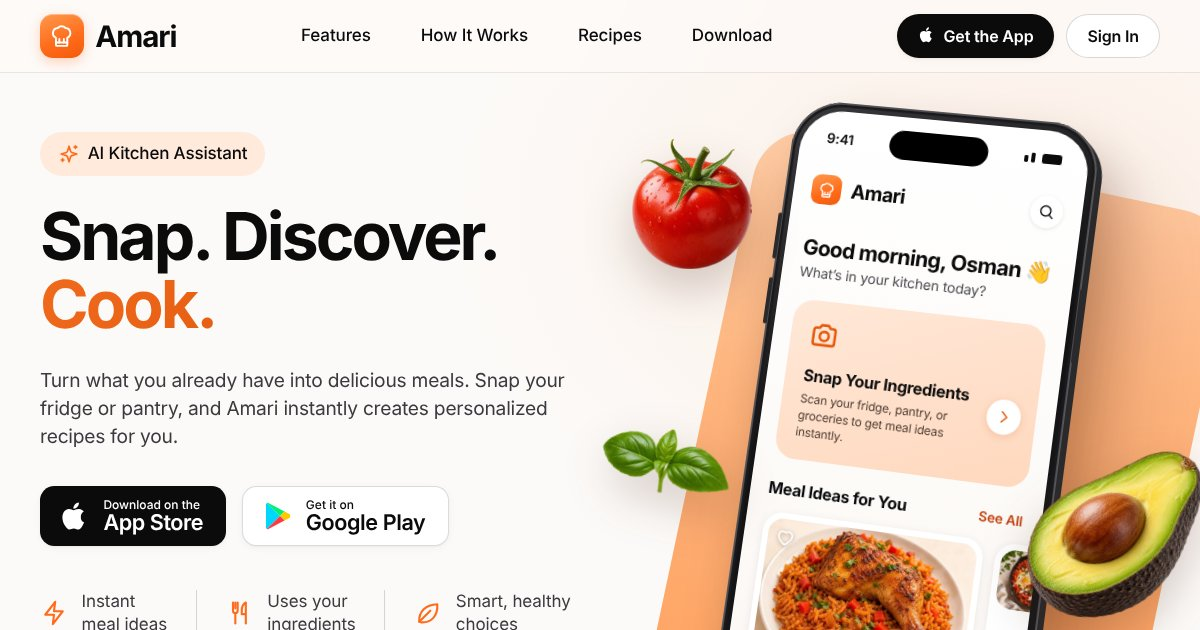
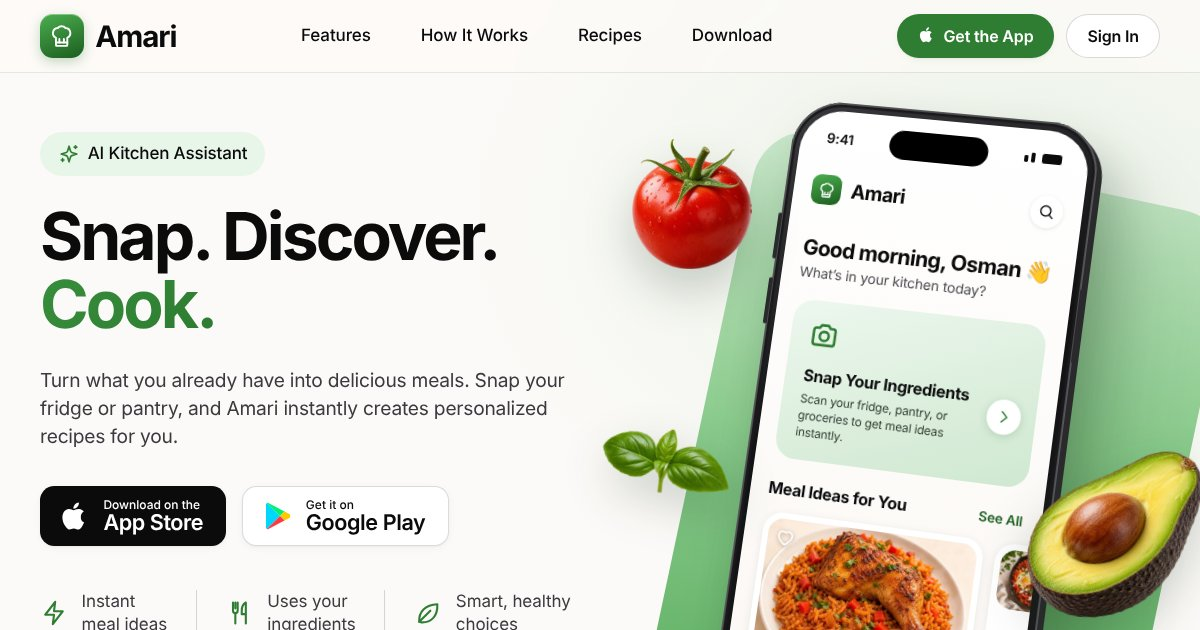
Re-theme site to the app's forest green
Replace the mockup's orange with the Amari app's brand green across the
logo, headline accent, primary buttons (now green with white text,
5.1:1), phone mock, hero backdrop, icons, tags, focus rings and the
Download panel (forest-green gradient). Sage section tints replace the
beige; "running low" in the pantry meter becomes amber so it still
reads as a warning. Favicon, touch icon, manifest and OG image updated.

Claude-Session: https://claude.ai/code/session_014nQZ4Bf8D4g1zRNf1kgH32

diff --git a/public/styles.css b/public/styles.css
@@ -9,33 +9,34 @@
   color-scheme: light dark;
 
   --bg: #FCFAF8;
-  --bg-tint: #F6F1EB;
+  --bg-tint: #F1F6EF;
   --surface: #FFFFFF;
-  --surface-2: #F5F2EE;
+  --surface-2: #F2F6F0;
   --ink: #0B0B0C;
   --ink-2: #3A3A3F;
   --ink-3: #66666C;
   --line: rgba(17, 12, 6, 0.08);
   --line-strong: rgba(17, 12, 6, 0.16);
 
-  --accent: #FF6B1A;
-  --accent-2: #FF9A4D;
-  --accent-text: #B43C0A;      /* ≥ 4.5:1 on white and on --accent-soft */
-  --accent-soft: #FFEADC;
-  --accent-grad: linear-gradient(135deg, #F06A1C 0%, #D94C05 100%);
+  --accent: #2F7D32;
+  --accent-2: #4CAF50;
+  --accent-text: #1B5E20;      /* ≥ 4.5:1 on white and on --accent-soft */
+  --accent-soft: #E8F5E9;
+  --accent-grad: linear-gradient(135deg, #388E3C 0%, #1B5E20 100%);
   --green: #15803D;
   --switch-on: #34C759;
-  --focus: #D9530B;
+  --focus: #2F7D32;
 
-  --btn-bg: #0B0B0C;
+  --btn-bg: #2F7D32;   /* white text 5.1:1 */
   --btn-ink: #FFFFFF;
+  --btn-bg-hover: #276A2A;
 
   --material: rgba(252, 250, 248, 0.72);
   --material-edge: rgba(255, 255, 255, 0.6);
 
-  --shadow-sm: 0 1px 2px rgba(30, 20, 10, 0.05), 0 2px 8px rgba(30, 20, 10, 0.04);
-  --shadow-md: 0 2px 6px rgba(30, 20, 10, 0.05), 0 12px 32px rgba(30, 20, 10, 0.07);
-  --shadow-lg: 0 4px 12px rgba(30, 20, 10, 0.06), 0 30px 60px rgba(30, 20, 10, 0.10);
+  --shadow-sm: 0 1px 2px rgba(16, 32, 18, 0.05), 0 2px 8px rgba(16, 32, 18, 0.04);
+  --shadow-md: 0 2px 6px rgba(16, 32, 18, 0.05), 0 12px 32px rgba(16, 32, 18, 0.07);
+  --shadow-lg: 0 4px 12px rgba(16, 32, 18, 0.06), 0 30px 60px rgba(16, 32, 18, 0.10);
 
   --r-sm: 0.75rem;
   --r-md: 1.25rem;
@@ -66,14 +67,14 @@
     --ink-3: #A1A1A6;
     --line: rgba(255, 255, 255, 0.09);
     --line-strong: rgba(255, 255, 255, 0.18);
-    --accent-text: #FF9A57;
-    --accent-soft: rgba(255, 122, 47, 0.16);
-    --accent-grad: linear-gradient(135deg, #FF9A4D 0%, #FF6B1A 100%);
+    --accent-text: #81C784;
+    --accent-soft: rgba(102, 187, 106, 0.16);
+    --accent-grad: linear-gradient(135deg, #A5D6A7 0%, #66BB6A 100%);
     --green: #4ADE80;
     --switch-on: #30D158;
-    --focus: #FF9A57;
-    --btn-bg: #F5F5F7;
-    --btn-ink: #0B0B0C;
+    --focus: #81C784;
+    --btn-bg: #2F7D32;
+    --btn-ink: #FFFFFF;
     --material: rgba(18, 18, 20, 0.7);
     --material-edge: rgba(255, 255, 255, 0.08);
     --shadow-sm: 0 1px 2px rgba(0, 0, 0, 0.4);
@@ -86,14 +87,15 @@
   --bg: #0B0B0C; --bg-tint: #111113; --surface: #18181B; --surface-2: #202024;
   --ink: #F5F5F7; --ink-2: #D1D1D6; --ink-3: #A1A1A6;
   --line: rgba(255, 255, 255, 0.09); --line-strong: rgba(255, 255, 255, 0.18);
-  --accent-text: #FF9A57; --accent-soft: rgba(255, 122, 47, 0.16);
-  --accent-grad: linear-gradient(135deg, #FF9A4D 0%, #FF6B1A 100%);
-  --green: #4ADE80; --switch-on: #30D158; --focus: #FF9A57;
-  --btn-bg: #F5F5F7; --btn-ink: #0B0B0C;
+  --accent-text: #81C784; --accent-soft: rgba(102, 187, 106, 0.16);
+  --accent-grad: linear-gradient(135deg, #A5D6A7 0%, #66BB6A 100%);
+  --green: #4ADE80; --switch-on: #30D158; --focus: #81C784;
+  --btn-bg: #2F7D32; --btn-ink: #FFFFFF;
   --material: rgba(18, 18, 20, 0.7); --material-edge: rgba(255, 255, 255, 0.08);
 }
 
 /* ---------- Base ---------- */
+::selection { background: rgba(76, 175, 80, 0.28); }
 *, *::before, *::after { box-sizing: border-box; }
 
 html {
@@ -182,7 +184,7 @@ h1, h2, h3, p { margin: 0; }
 .btn:active, .store-badge:active, .round-btn:active, .heart-btn:active { transform: scale(0.97); }
 .btn-sm { min-height: 2.75rem; padding: 0 1.25rem; }
 .btn-primary { background: var(--btn-bg); color: var(--btn-ink); box-shadow: var(--shadow-sm); }
-.btn-primary:hover { box-shadow: var(--shadow-md); }
+.btn-primary:hover { box-shadow: var(--shadow-md); background: var(--btn-bg-hover, var(--btn-bg)); }
 .btn-primary .ico { width: 1.1em; height: 1.1em; margin-top: -0.1em; }
 .btn-secondary { background: var(--surface); border-color: var(--line-strong); color: var(--ink); }
 .btn-secondary:hover { background: var(--surface-2); }
@@ -221,9 +223,9 @@ h1, h2, h3, p { margin: 0; }
 .brand-mark {
   display: inline-grid; place-items: center;
   width: 2.75rem; height: 2.75rem; border-radius: 0.8rem;
-  background: linear-gradient(160deg, #FF9A4D 0%, #FF6B1A 60%, #F25A0C 100%);
+  background: linear-gradient(160deg, #4CAF50 0%, #2F7D32 60%, #1B5E20 100%);
   color: #fff;
-  box-shadow: inset 0 1px 0 rgba(255,255,255,0.35), 0 4px 12px rgba(255, 107, 26, 0.28);
+  box-shadow: inset 0 1px 0 rgba(255,255,255,0.35), 0 4px 12px rgba(47, 125, 50, 0.28);
 }
 .brand-mark svg { width: 62%; height: 62%; fill: none; stroke: currentColor; stroke-width: 1.7; stroke-linecap: round; stroke-linejoin: round; }
 .brand-mark--sm { width: 2rem; height: 2rem; border-radius: 0.6rem; }
@@ -258,7 +260,7 @@ h1, h2, h3, p { margin: 0; }
   padding-bottom: 6rem;
   overflow: clip;
   background:
-    radial-gradient(60rem 40rem at 85% 30%, rgba(255, 138, 61, 0.10), transparent 60%),
+    radial-gradient(60rem 40rem at 85% 30%, rgba(76, 175, 80, 0.10), transparent 60%),
     var(--bg);
 }
 .hero-grid {
@@ -348,12 +350,12 @@ h1, h2, h3, p { margin: 0; }
   position: absolute;
   left: 14%; right: -4%; top: 12%; bottom: -6%;
   border-radius: 3.5rem;
-  background: linear-gradient(170deg, #FFC9A0 0%, #FFAE73 40%, #FF9549 100%);
+  background: linear-gradient(170deg, #C8E6C9 0%, #81C784 45%, #43A047 100%);
   transform: rotate(12deg);
   opacity: 0.92;
 }
 @media (prefers-color-scheme: dark) {
-  :root:not([data-theme="light"]) .hero-backdrop { opacity: 0.85; background: linear-gradient(170deg, #FFAE73 0%, #FF8A3D 55%, #E8600F 100%); }
+  :root:not([data-theme="light"]) .hero-backdrop { opacity: 0.85; background: linear-gradient(170deg, #81C784 0%, #4CAF50 55%, #2E7D32 100%); }
 }
 
 .phone-stage {
@@ -377,8 +379,8 @@ h1, h2, h3, p { margin: 0; }
     inset 0 0 0 0.12em #59595e,
     inset 0 0 0 0.3em #1a1a1c,
     0.45em 0.35em 0 -0.05em #2a2a2d,
-    1.2em 2em 3.5em rgba(80, 30, 0, 0.28),
-    3em 5em 6em rgba(80, 30, 0, 0.18);
+    1.2em 2em 3.5em rgba(20, 50, 22, 0.28),
+    3em 5em 6em rgba(20, 50, 22, 0.18);
 }
 .phone::before, .phone::after { /* side buttons */
   content: ""; position: absolute; width: 0.3em; border-radius: 0.2em; background: #2a2a2d;
@@ -423,24 +425,24 @@ h1, h2, h3, p { margin: 0; }
   margin-top: 1.2em;
   padding: 1.3em 3.5em 1.3em 1.3em;
   border-radius: 1.4em;
-  background: linear-gradient(160deg, #FFE8D8 0%, #FFD8BE 100%);
+  background: linear-gradient(160deg, #EDF7EE 0%, #CFE8D0 100%);
 }
-.app-snap-icon { width: 2.1em; height: 2.1em; color: #E8590C; stroke-width: 2; }
+.app-snap-icon { width: 2.1em; height: 2.1em; color: #2F7D32; stroke-width: 2; }
 .app-snap-title { margin-top: 0.7em; font-weight: 700; font-size: 1.1em; letter-spacing: -0.02em; }
-.app-snap-text { margin-top: 0.4em; font-size: 0.8em; color: #4A3A30; line-height: 1.4; }
+.app-snap-text { margin-top: 0.4em; font-size: 0.8em; color: #2E3B2F; line-height: 1.4; }
 .app-snap-go {
   position: absolute; right: 1em; top: 50%; translate: 0 -10%;
   display: grid; place-items: center; width: 2.3em; height: 2.3em; border-radius: 50%;
-  background: #fff; color: #E8590C; box-shadow: 0 2px 8px rgba(200,80,10,0.18);
+  background: #fff; color: #2F7D32; box-shadow: 0 2px 8px rgba(30,90,34,0.18);
 }
 .app-row-head { margin-top: 1.4em; display: flex; justify-content: space-between; align-items: baseline; }
 .app-row-head span:first-child { font-weight: 700; font-size: 1.1em; letter-spacing: -0.02em; }
-.app-see-all { color: #C2410C; font-weight: 600; font-size: 0.9em; }
+.app-see-all { color: #1B5E20; font-weight: 600; font-size: 0.9em; }
 .app-meals { margin-top: 0.8em; display: flex; gap: 0.8em; }
 .app-meal {
   flex: none; width: 15em; padding: 0.4em 0.4em 0.9em;
   border-radius: 1.3em; background: #fff;
-  box-shadow: 0 2px 10px rgba(60, 30, 10, 0.08);
+  box-shadow: 0 2px 10px rgba(20, 40, 22, 0.08);
 }
 .app-meal--peek { width: 6em; }
 .app-meal-img { position: relative; border-radius: 1em; overflow: hidden; aspect-ratio: 4 / 3; }
@@ -458,7 +460,7 @@ h1, h2, h3, p { margin: 0; }
 
 .produce {
   position: absolute; z-index: 3;
-  filter: drop-shadow(0 1.25rem 1.5rem rgba(60, 20, 0, 0.22));
+  filter: drop-shadow(0 1.25rem 1.5rem rgba(20, 40, 20, 0.22));
   will-change: transform;
   pointer-events: none;
   user-select: none;
@@ -602,7 +604,7 @@ h1, h2, h3, p { margin: 0; }
 .meters li > span:first-child { width: 4.75rem; flex: none; }
 .meter { flex: 1; height: 0.4rem; border-radius: 999px; background: var(--line); position: relative; overflow: hidden; }
 .meter::after { content: ""; position: absolute; inset: 0 auto 0 0; width: calc(var(--level) * 100%); border-radius: inherit; background: var(--green); }
-.meter--low::after { background: var(--accent); }
+.meter--low::after { background: #E8A317; }
 .meter--15 { --level: 0.15; }
 .meter--50 { --level: 0.5; }
 .meter--80 { --level: 0.8; }
@@ -682,20 +684,21 @@ h1, h2, h3, p { margin: 0; }
   padding: clamp(3.5rem, 8vw, 6rem) clamp(1.5rem, 5vw, 4rem);
   border-radius: var(--r-xl);
   background:
-    radial-gradient(40rem 22rem at 50% 115%, rgba(255, 122, 47, 0.45), transparent 70%),
-    #0E0E10;
+    radial-gradient(40rem 22rem at 50% 120%, rgba(165, 214, 167, 0.22), transparent 70%),
+    linear-gradient(160deg, #2E7D32 0%, #1B5E20 100%);
   color: #F5F5F7;
   isolation: isolate;
 }
 .cta .h2 { margin-top: 1.75rem; max-width: 44rem; }
-.cta > p { margin-top: 1.1rem; max-width: 36rem; color: #C7C7CC; font-size: clamp(1.0625rem, 1.5vw, 1.25rem); }
+.cta > p { margin-top: 1.1rem; max-width: 36rem; color: #E3F1E4; font-size: clamp(1.0625rem, 1.5vw, 1.25rem); }
 .cta .store-badges { margin-top: 2.25rem; }
-.cta .cta-note { margin-top: 1.5rem; font-size: 0.9375rem; color: #A1A1A6; }
-.cta-produce { position: absolute; z-index: -1; pointer-events: none; filter: drop-shadow(0 1rem 1.5rem rgba(0,0,0,0.5)); }
+.cta .cta-note { margin-top: 1.5rem; font-size: 0.9375rem; color: #C8E6C9; }
+.cta .brand-mark { background: #fff; color: #2F7D32; box-shadow: 0 6px 18px rgba(0, 0, 0, 0.18); }
+.cta-produce { position: absolute; z-index: -1; pointer-events: none; filter: drop-shadow(0 1rem 1.5rem rgba(0,0,0,0.35)); }
 .cta-produce--tomato { width: clamp(6rem, 12vw, 10rem); left: -1.5rem; bottom: -1.5rem; rotate: -12deg; }
 .cta-produce--basil { width: clamp(6rem, 11vw, 9rem); right: -1rem; top: 1.5rem; rotate: 30deg; }
 @media (prefers-color-scheme: dark) {
-  :root:not([data-theme="light"]) .cta { background: radial-gradient(40rem 22rem at 50% 115%, rgba(255, 122, 47, 0.4), transparent 70%), #18181B; border: 1px solid var(--line); }
+  :root:not([data-theme="light"]) .cta { border: 1px solid rgba(255, 255, 255, 0.08); }
 }
 
 /* ---------- Footer ---------- */

diff --git a/docs/superpowers/specs/2026-11-07-amari-landing-design.md b/docs/superpowers/specs/2026-11-07-amari-landing-design.md
@@ -27,7 +27,7 @@ A marketing landing page for **Amari**, an AI kitchen assistant app: snap your f
 
 ## Design system
 
-- Color tokens on `:root`, dark-mode overrides via `prefers-color-scheme`. Brand orange `#FF6B1A` → `#FF8A3D` gradient; ink `#0B0B0C`; surface warm off-white `#FCFAF8`.
+- Color tokens on `:root`, dark-mode overrides via `prefers-color-scheme`. Brand is the app's **forest/herb green**: primary `#2F7D32`, deep `#1B5E20` (text/links), soft `#E8F5E9` (tints), dark-mode text `#81C784`. Primary buttons are green with white text (5.1:1). Ink `#0B0B0C`; surface warm off-white `#FCFAF8`; sage section tint `#F1F6EF`. The Download panel is a forest-green gradient. (Revised 2026-11-08: the mockup's orange was replaced by the app's green.)
 - Type: size-specific tracking (display −0.035em, h2 −0.025em, body 0), tight leading on display (1.0), 1.5 on body; `rem` units so layout scales with user text size.
 - Radius scale 12/20/28/40; layered soft shadows; materials: nav uses blur(20px) saturate(180%).
 - Motion: press feedback on `:active` (scale .97, 100ms). Reveal-on-scroll with opacity + small translate. Springs critically damped by default; bounce only after a flick.
